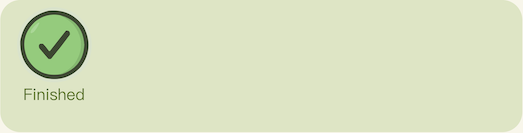
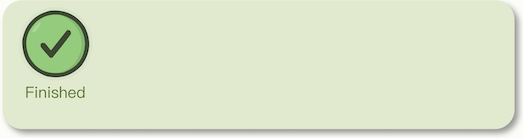
页面4修改

Changed region(s): [[0.0, 0.0, 1.0, 0.9925], [0.0612, 0.0602, 0.1836, 0.3609]]

diff --git a/src/main/java/com/virtualbank/ui/TaskLabel.java b/src/main/java/com/virtualbank/ui/TaskLabel.java
@@ -21,7 +21,8 @@ public class TaskLabel extends JLabel {
         this.taskId = taskId;
         Font font = new Font("Arial", Font.PLAIN, 16);
         this.setLayout(null);
-        this.setPreferredSize(new Dimension(523, 133)); // 设置标签的首选大小
+        this.setBorder(null);
+        this.setPreferredSize(new Dimension(523, 138)); // 设置标签的首选大小
 
         // 设置任务名
         JLabel nameLabel = new JLabel(taskName);
@@ -72,8 +73,10 @@ public class TaskLabel extends JLabel {
         this.add(childLabel);
 
         // 删除按钮
-        deleteButton = new JButton("Delete");
-        deleteButton.setBounds(400, 90, 105, 40);
+        deleteButton = new JButton();
+        deleteButton.setBounds(390, 90, 120, 40);
+        ImageIcon deleteButtonImage = new ImageIcon("images/DeleteButtonImage.png");
+        deleteButton.setIcon(deleteButtonImage);
         deleteButton.setBorder(null);
         this.add(deleteButton);
     }

diff --git a/src/main/java/com/virtualbank/ui/Page04_ParentHome.java b/src/main/java/com/virtualbank/ui/Page04_ParentHome.java
@@ -136,8 +136,10 @@ public class Page04_ParentHome extends JFrame {
 
         public Parent_NotAcceptedTaskLabel(String id, String taskName, String description, Double reward, String childName, String startDate, String dueDate) {
             super(id, taskName, description, reward, childName, startDate, dueDate);
-            terminateButton = new JButton("Terminate");
-            terminateButton.setBounds(300, 90, 100, 40);
+            terminateButton = new JButton();
+            terminateButton.setBounds(290, 90, 100, 40);
+            ImageIcon terminateButtonImage = new ImageIcon("images/TerminateButtonImage.png");
+            terminateButton.setIcon(terminateButtonImage);
             terminateButton.setBorder(null);
             this.add(terminateButton);
         }
